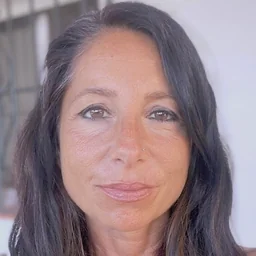
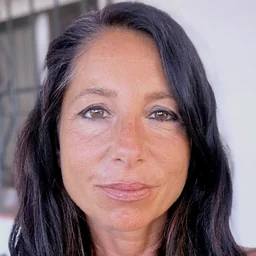
Reseña Elsa: nueva foto y «Tránsito Compasivo · Málaga»

diff --git a/index.html b/index.html
@@ -234,9 +234,9 @@ if(esIngles&&!yaEnIngles)location.replace('/en/');
         <article class="resena" itemscope itemtype="https://schema.org/Review">
           <div itemprop="itemReviewed" itemscope itemtype="https://schema.org/Service"><meta itemprop="name" content="Diseño web Tu Web Moderna"></div>
           <div class="resena__quien">
-            <img class="resena__foto" src="assets/img/resena-elsa-maria.webp?v=1" alt="Elsa María Ballesteros" width="58" height="58">
+            <img class="resena__foto" src="assets/img/resena-elsa-maria.webp?v=2" alt="Elsa María Ballesteros" width="58" height="58">
             <span><strong class="resena__nombre" itemprop="author">Elsa María Ballesteros</strong><br>
-            <span class="resena__negocio">Tránsito Compasivo</span><br>
+            <span class="resena__negocio">Tránsito Compasivo · Málaga</span><br>
             <a class="resena__web" href="https://transitocompasivo.com/" target="_blank" rel="noopener">Visitar página web ↗</a></span>
           </div>
           <p class="resena__texto" itemprop="reviewBody">Marco me lo ha puesto muy fácil. Mi conocimiento digital es limitado, ha sido paciente y dedicado. Me escucha y me aconseja lo que realmente es mejor para mis objetivos. Actualiza sus herramientas digitales. Mi web gusta y representa lo que yo quería.</p>

diff --git a/en/index.html b/en/index.html
@@ -219,9 +219,9 @@
         <article class="resena" itemscope itemtype="https://schema.org/Review">
           <div itemprop="itemReviewed" itemscope itemtype="https://schema.org/Service"><meta itemprop="name" content="Diseño web Tu Web Moderna"></div>
           <div class="resena__quien">
-            <img class="resena__foto" src="../assets/img/resena-elsa-maria.webp?v=1" alt="Elsa María Ballesteros" width="58" height="58">
+            <img class="resena__foto" src="../assets/img/resena-elsa-maria.webp?v=2" alt="Elsa María Ballesteros" width="58" height="58">
             <span><strong class="resena__nombre" itemprop="author">Elsa María Ballesteros</strong><br>
-            <span class="resena__negocio">Tránsito Compasivo</span><br>
+            <span class="resena__negocio">Tránsito Compasivo · Málaga</span><br>
             <a class="resena__web" href="https://transitocompasivo.com/" target="_blank" rel="noopener">Visit website ↗</a></span>
           </div>
           <p class="resena__texto" itemprop="reviewBody">Marco me lo ha puesto muy fácil. Mi conocimiento digital es limitado, ha sido paciente y dedicado. Me escucha y me aconseja lo que realmente es mejor para mis objetivos. Actualiza sus herramientas digitales. Mi web gusta y representa lo que yo quería.</p>
